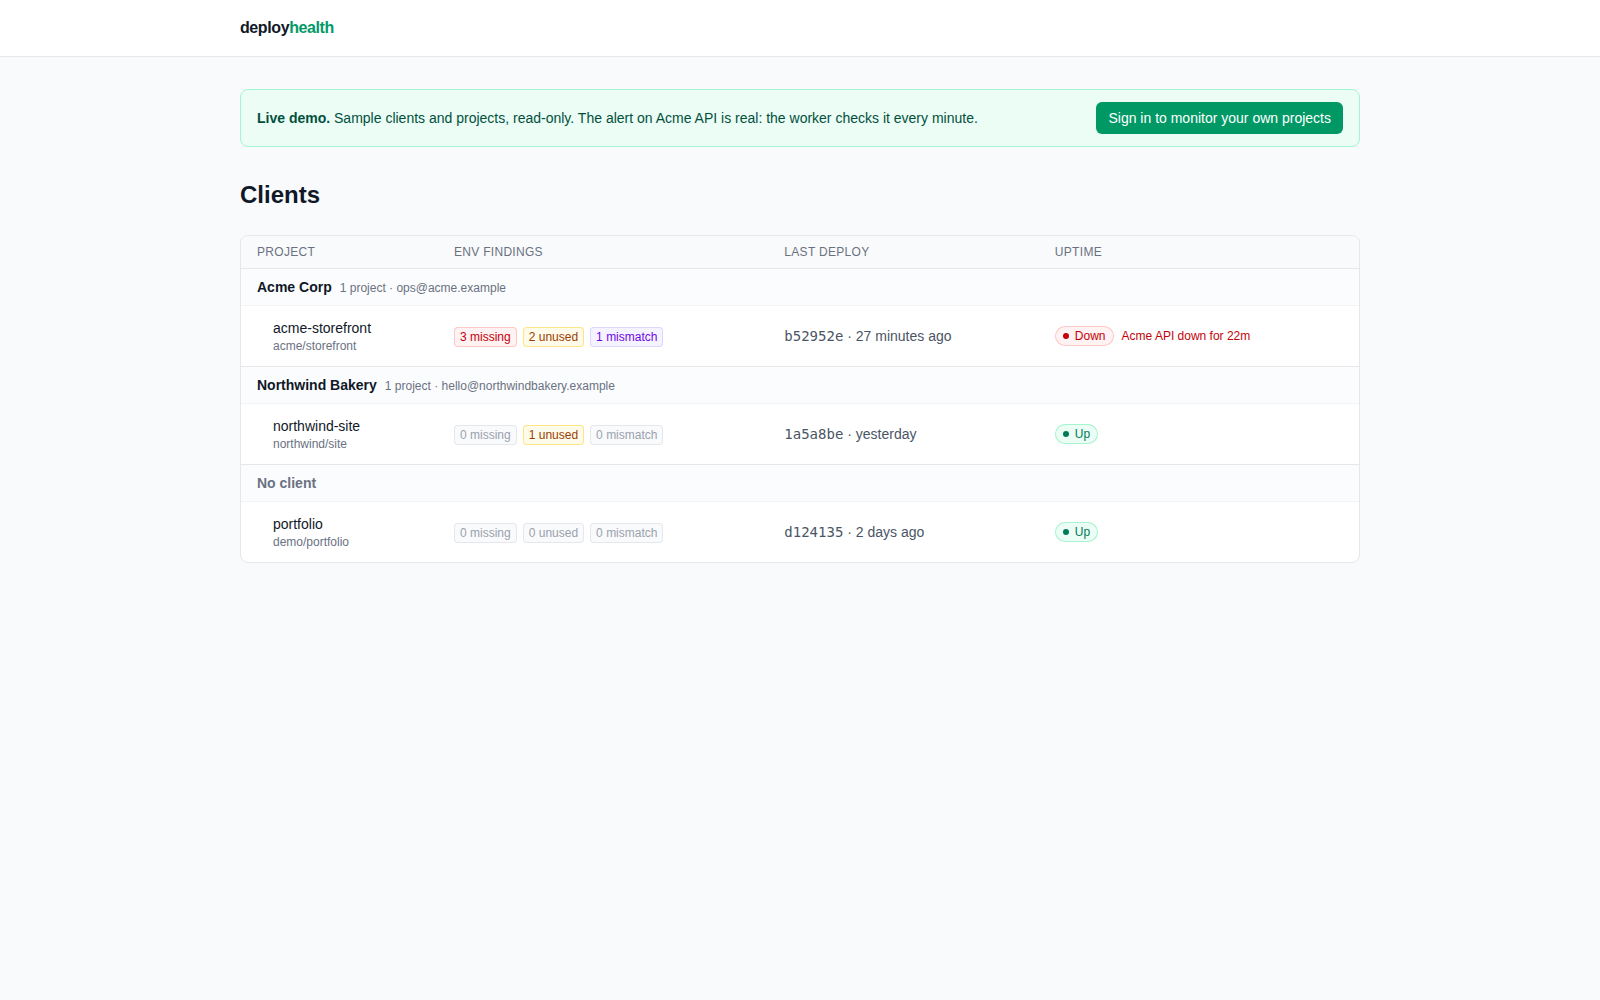
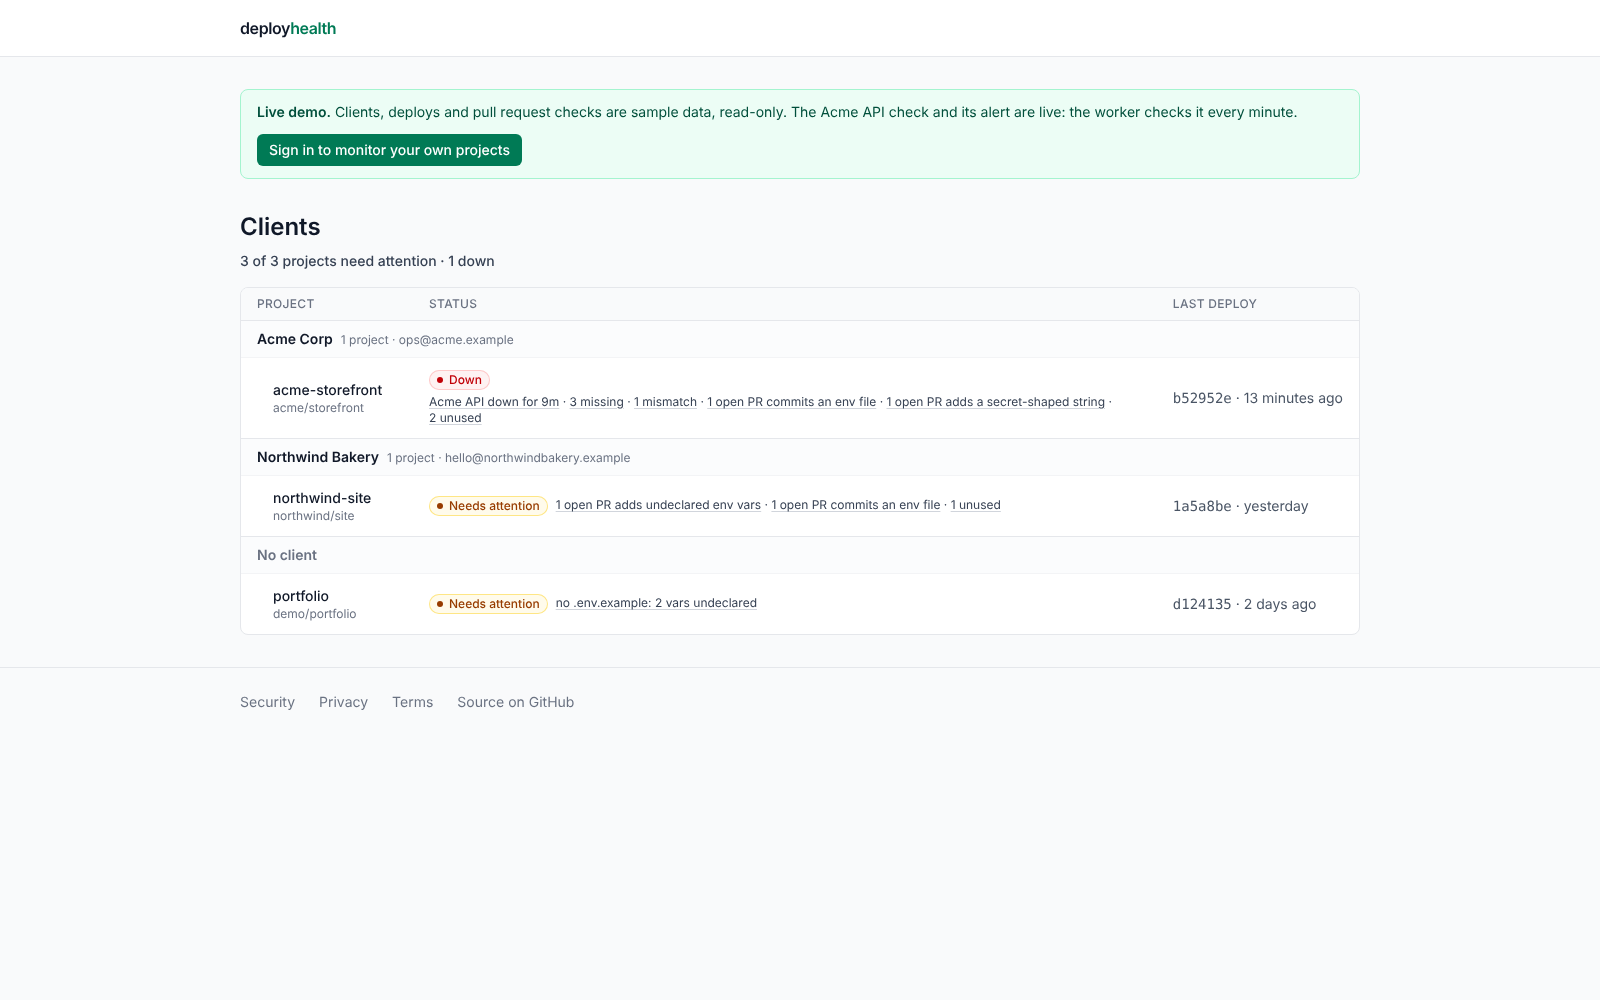
docs: README screenshots of the project statuses and the deploy history

diff --git a/README.md b/README.md
@@ -27,7 +27,7 @@ newly left undefined:
 And when a contract ends, or a month does, it writes the paperwork: a **handoff document** for the
 client and a **monthly report** you can share with a link.
 
-![Every client with its projects: env findings, last deploy, and uptime ("Acme API down for 22m")](docs/screenshots/clients.png)
+![Every client with its projects, worst first under a summary line: each with one status (Down, Needs attention, Healthy), its non-zero findings, and the last deploy](docs/screenshots/clients.png)
 
 ## What you get
 
@@ -37,7 +37,7 @@ Each project gets a GitHub Action. On every push it scans the repo and reports w
 unused or out of sync, per env scope (so `apps/web` is checked against `apps/web/.env.example`),
 with `file:line` for every finding and a history per deploy.
 
-![Findings grouped by kind with file:line, and the deploy history with each deploy's counts](docs/screenshots/findings-and-deploys.png)
+![Findings grouped by kind with file:line, and the deploy history: what each deploy added or fixed, and the outage that followed one](docs/screenshots/findings-and-deploys.png)
 
 Setup is one repository secret and one workflow file ([setup](#setup-two-options)). The scanner is the MIT-licensed npm package
 [`deployhealth-scan`](https://www.npmjs.com/package/deployhealth-scan), pinned to an exact version:
